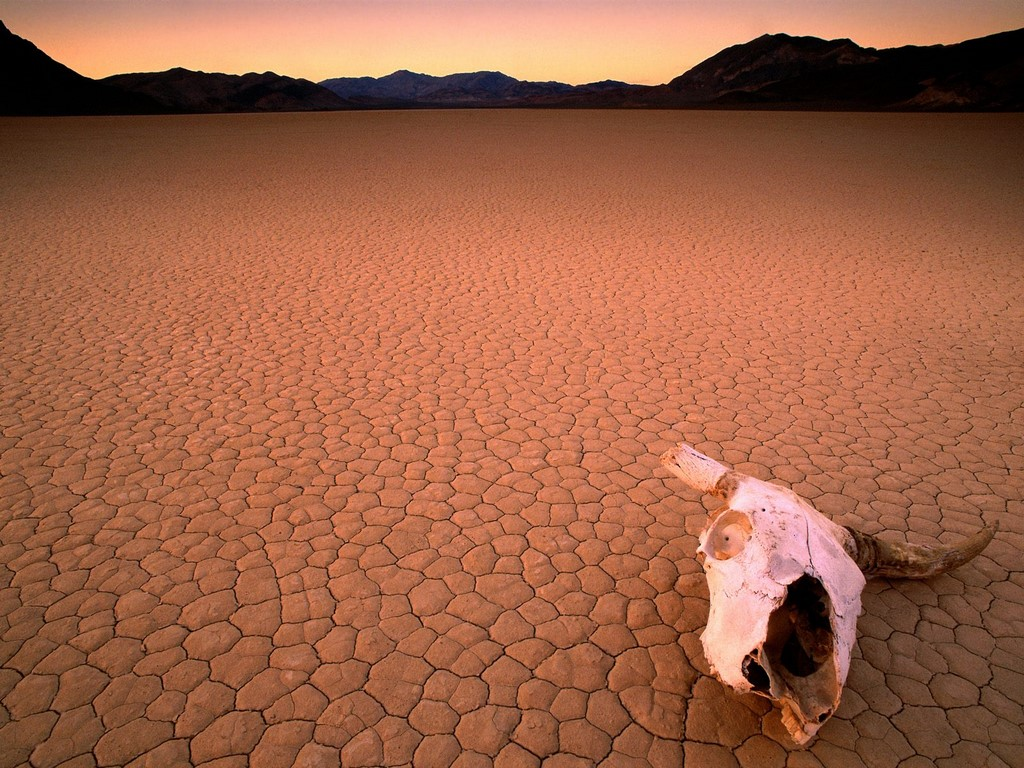
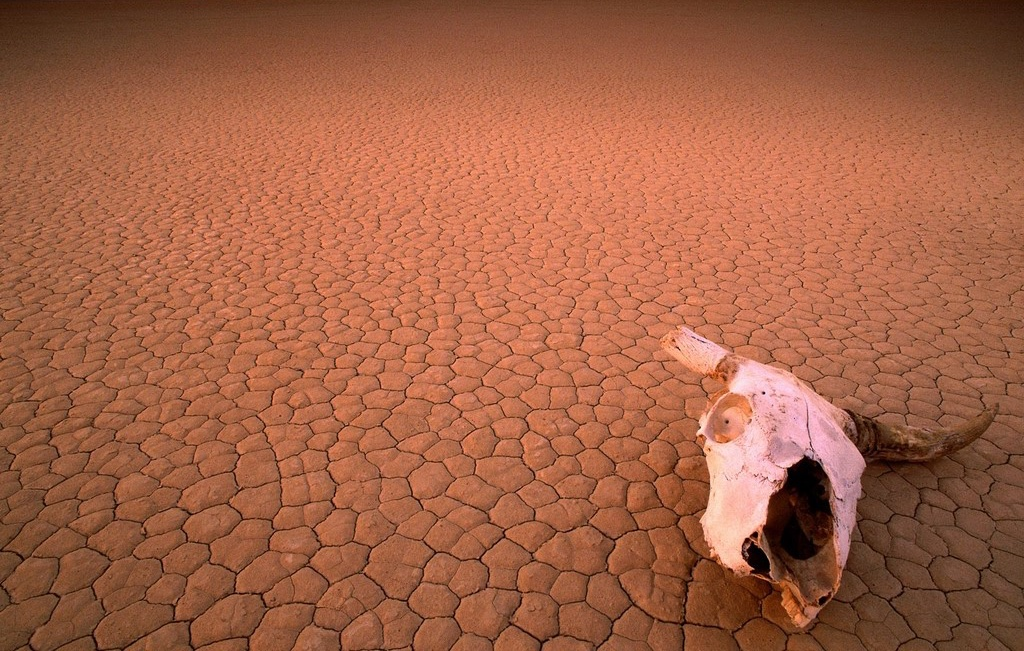
Adjustments for 404 page image.

diff --git a/404.html b/404.html
@@ -15,21 +15,31 @@ permalink: /404.html
   <link rel="stylesheet" href="css/style.css">
   <script type='text/javascript' src='scripts/jquery-2.1.3.js'></script>
   <style>
-    html, body {
+    html, body, article, section {
       height: 100%;
     }
-    body {
-      background: #E2865C url(./images/deathvalley.jpg) no-repeat center 130px;
-      background-size: auto 80%;
+    section {
+      height: 100%;
+      background: #c76d49 url(./images/deathvalley.jpg) no-repeat center 130px;
+      background-size: 100% auto;
+      background-position: center 300px;
+    }
+    section.header {
+      background-color: #c76d49 !important;
+    }
+    @media only screen and (min-width: 1025px) and (max-width: 5000px) { 
+      html, body, article, section {
+        height: 105%;
+      }
     }
   </style>
 </head>
 <body>
   <nav>
     <ul class="menu">
-      <li><a href="./tutorials.html"><span>Tutorials</span><span>Tuts</span></a></li>
-      <li><a href="./documentation.html"><span>Documentation</span><span>Docs</span></a></li>
-      <li><a href="./community.html#/news">Community</a></li>
+      <li id='eventsLink'><a href="./tutorials.html#/layouts"><span>Tutorials</span><span>Tuts</span></a></li>
+      <li id='documentationLink'><a href="./documentation.html#/building"><span>Documentation</span><span>Docs</span></a></li>
+      <li id='communityLink'><a href="./community.html#/news">Community</a></li>
       <li id='downloadTab'><a target='_blank' href="https://github.com/chocolatechipui/chocolatechip-ui">Download</a></li>
     </ul>
     <h1 id='Logo'>ChocolateChip-UI</h1>

diff --git a/css/theme.css b/css/theme.css
@@ -73,7 +73,9 @@ ul#colors-secondary > li.selected {
   box-shadow: 0 0 6px 2px rgba(0,0,0,0.75);
   border: solid 2px #fff !important;
 }
-
+button:focus {
+  outline: none !important;
+}
 .maroonColor {
   background-color: #9d403a !important;
 }
